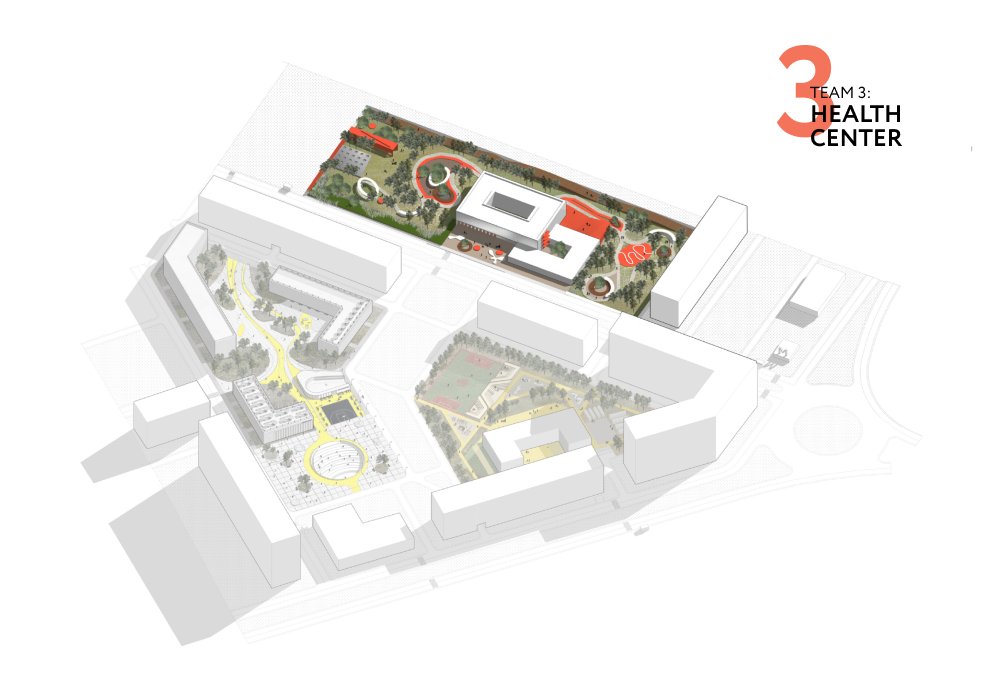
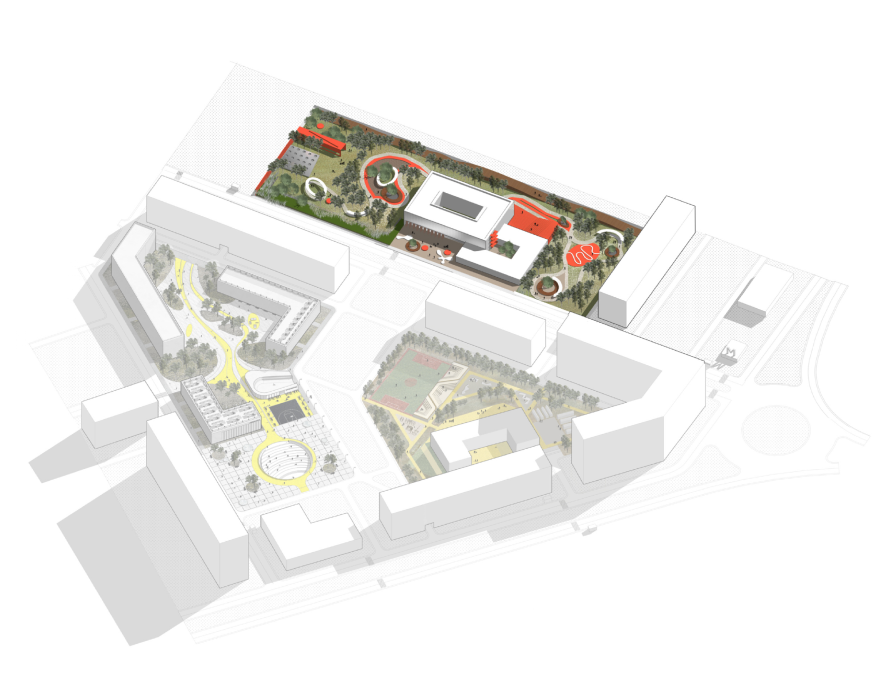
add genplan

diff --git a/Eleonora-sorokina/pages/project2/index.html b/Eleonora-sorokina/pages/project2/index.html
@@ -67,41 +67,99 @@
                     </section>
                 </div>
                 <div class="elia">
-                <section class="tasker">
-                    <div class="tasker__img">
-                        <img class="img_s" src="../../img/gen0.png" alt="">
-                    </div>
-                    <div class="task">
-                        <div class="task__item">
-                        <div class="task__tittle">
-                            <p>
-                                THE TASK AND PURPOSE OF THE WORKSHOP
-                            </p>
+                    <section class="tasker">
+                        <div class="tasker__img">
+                            <img class="img_s" src="../../img/gen0.png" alt="">
                         </div>
-                        <div class="task__step">
-                            <p>Investigate and identify key issues 
-                                improvement of territories of social objects</p>
-                        </div>
+                        <div class="task">
+                            <div class="task__item">
+                                <div class="task__tittle">
+                                    <p>
+                                        THE TASK AND PURPOSE OF THE WORKSHOP
+                                    </p>
+                                </div>
+                                <div class="task__step">
+                                    <p>Investigate and identify key issues
+                                        improvement of territories of social objects</p>
+                                </div>
 
-                            <div class="task__arrow"><img src="../../img/Arrow.svg" alt=""></div>
+                                <div class="task__arrow"><img src="../../img/Arrow.svg" alt=""></div>
 
-                        <div class="task__step">
-                            <p>To formulate the principles of designing the territory
-                                of social objects taking into account modern requirements
-                                and a view of the future development of social objects</p>
-                        </div>
+                                <div class="task__step">
+                                    <p>To formulate the principles of designing the territory
+                                        of social objects taking into account modern requirements
+                                        and a view of the future development of social objects</p>
+                                </div>
 
-                            <div class="task__arrow"><img src="../../img/Arrow.svg" alt=""></div>
+                                <div class="task__arrow"><img src="../../img/Arrow.svg" alt=""></div>
 
-                        <div class="task__step">
-                            <p>To impose the invented principles on the proposed
-                                territory in the form of conditional design solutions</p>
+                                <div class="task__step">
+                                    <p>To impose the invented principles on the proposed
+                                        territory in the form of conditional design solutions</p>
+                                </div>
                             </div>
+                        </section>  
+                        </div>
+                        <div class="team">
+                            <div class="team__img">
+                                <svg  class="team__img__description" width="104" height="64" viewBox="0 0 104 64" fill="none" xmlns="http://www.w3.org/2000/svg">
+                                    <path d="M25.944 43H24.48V39.412H20.64V43H19.164V34.6H20.64V38.032H24.48V34.6H25.944V43ZM33.2495 43H28.2695V34.6H33.1295V35.98H29.7455V38.068H32.7695V39.448H29.7455V41.62H33.2495V43ZM35.5798 43H34.0918L37.6438 34.576H38.9398L42.4918 43H40.9198L40.0438 40.852H36.4558L35.5798 43ZM39.4798 39.472L38.2558 36.484L37.0198 39.472H39.4798ZM49.0059 43H43.7499V34.6H45.2259V41.62H49.0059V43ZM50.7268 35.98H48.0028V34.6H54.9268V35.98H52.2028V43H50.7268V35.98ZM62.987 43H61.523V39.412H57.683V43H56.207V34.6H57.683V38.032H61.523V34.6H62.987V43ZM24.996 53.08L25.56 54.184C25.296 54.464 24.916 54.692 24.42 54.868C23.932 55.044 23.416 55.132 22.872 55.132C21.592 55.132 20.548 54.736 19.74 53.944C18.94 53.152 18.54 52.104 18.54 50.8C18.54 49.552 18.92 48.516 19.68 47.692C20.432 46.876 21.484 46.468 22.836 46.468C23.908 46.468 24.76 46.752 25.392 47.32L24.732 48.412C24.164 48.036 23.532 47.848 22.836 47.848C22.036 47.848 21.38 48.116 20.868 48.652C20.356 49.188 20.1 49.904 20.1 50.8C20.1 51.68 20.368 52.392 20.904 52.936C21.448 53.48 22.148 53.752 23.004 53.752C23.74 53.752 24.404 53.528 24.996 53.08ZM32.0073 55H27.0273V46.6H31.8873V47.98H28.5033V50.068H31.5273V51.448H28.5033V53.62H32.0073V55ZM41.1056 46.6V55H39.9296L35.3096 49.18V55H33.9296V46.6H35.1056L39.7256 52.444V46.6H41.1056ZM45.1135 47.98H42.3895V46.6H49.3135V47.98H46.5895V55H45.1135V47.98ZM55.5737 55H50.5937V46.6H55.4537V47.98H52.0697V50.068H55.0937V51.448H52.0697V53.62H55.5737V55ZM58.972 51.856V55H57.496V46.6C57.912 46.6 58.364 46.596 58.852 46.588C59.34 46.58 59.74 46.576 60.052 46.576C62.084 46.576 63.1 47.44 63.1 49.168C63.1 49.808 62.936 50.336 62.608 50.752C62.28 51.152 61.904 51.424 61.48 51.568L64.108 55H62.32L60.004 51.856H58.972ZM59.98 47.956C59.94 47.956 59.876 47.96 59.788 47.968C59.7 47.968 59.576 47.972 59.416 47.98C59.256 47.98 59.108 47.98 58.972 47.98V50.476H59.932C60.404 50.476 60.788 50.36 61.084 50.128C61.388 49.896 61.54 49.58 61.54 49.18C61.54 48.364 61.02 47.956 59.98 47.956Z" fill="black"/>
+                                    <g style="mix-blend-mode:multiply">
+                                    <path d="M15.616 50.704C12.3307 50.704 9.42933 50.0427 6.912 48.72C4.43733 47.3547 2.60267 45.4987 1.408 43.152L5.568 37.776C8.08533 41.488 11.2853 43.344 15.168 43.344C17.4293 43.344 19.2 42.768 20.48 41.616C21.76 40.464 22.4 38.9707 22.4 37.136C22.4 35.088 21.6533 33.5307 20.16 32.464C18.7093 31.3547 16.6827 30.8 14.08 30.8H10.88V23.44H13.76C15.7227 23.44 17.3653 22.864 18.688 21.712C20.0107 20.56 20.672 19.088 20.672 17.296C20.672 15.5893 20.1813 14.2667 19.2 13.328C18.2187 12.3467 16.8107 11.856 14.976 11.856C11.52 11.856 8.704 13.456 6.528 16.656L2.432 11.472C4.90667 6.82133 9.32267 4.496 15.68 4.496C19.5627 4.496 22.6773 5.54133 25.024 7.632C27.3707 9.68 28.544 12.432 28.544 15.888C28.544 20.9653 26.2613 24.5067 21.696 26.512V26.704C24.384 27.1733 26.4747 28.3893 27.968 30.352C29.504 32.272 30.272 34.6187 30.272 37.392C30.272 41.4453 28.8853 44.688 26.112 47.12C23.3387 49.5093 19.84 50.704 15.616 50.704Z" fill="#F3745A"/>
+                                    </g>
+                                    <path d="M20.04 26.04H18.08V25.4H22.68V26.04H20.72V31H20.04V26.04ZM26.8378 31H23.5978V25.4H26.7578V26.04H24.2778V27.848H26.5178V28.488H24.2778V30.36H26.8378V31ZM28.1674 31H27.4794L29.8874 25.368H30.4714L32.8794 31H32.1514L31.4314 29.304H28.8794L28.1674 31ZM31.1674 28.664L30.1594 26.272L29.1514 28.664H31.1674ZM34.52 31H33.84V25.4H34.528L36.632 28.272L38.648 25.4H39.296V31H38.616V26.472L36.632 29.256H36.528L34.52 26.496V31ZM43.9057 31.08C43.511 31.08 43.1644 30.9973 42.8657 30.832C42.5724 30.6667 42.3537 30.4293 42.2097 30.12L42.5777 29.664C42.7057 29.9093 42.887 30.1013 43.1217 30.24C43.3564 30.3733 43.6097 30.44 43.8817 30.44C44.2177 30.44 44.4844 30.3467 44.6817 30.16C44.8844 29.9733 44.9857 29.7307 44.9857 29.432C44.9857 29.1333 44.879 28.896 44.6657 28.72C44.4577 28.544 44.183 28.456 43.8417 28.456H43.4017V27.816H43.8017C44.063 27.816 44.287 27.7253 44.4737 27.544C44.671 27.3627 44.7697 27.1307 44.7697 26.848C44.7697 26.5707 44.687 26.3547 44.5217 26.2C44.3617 26.04 44.1404 25.96 43.8577 25.96C43.351 25.96 42.967 26.192 42.7057 26.656L42.3457 26.216C42.4737 25.9333 42.6737 25.7147 42.9457 25.56C43.223 25.4 43.543 25.32 43.9057 25.32C44.375 25.32 44.7484 25.448 45.0257 25.704C45.3084 25.96 45.4497 26.304 45.4497 26.736C45.4497 27.0453 45.375 27.3173 45.2257 27.552C45.0764 27.7867 44.8604 27.9627 44.5777 28.08V28.104C44.9084 28.1573 45.1724 28.3093 45.3697 28.56C45.567 28.8107 45.6657 29.1093 45.6657 29.456C45.6657 29.9467 45.5004 30.3413 45.1697 30.64C44.8444 30.9333 44.423 31.08 43.9057 31.08ZM47.0275 27.752C47.0275 27.64 47.0702 27.5413 47.1555 27.456C47.2462 27.3707 47.3555 27.328 47.4835 27.328C47.5955 27.328 47.6942 27.3707 47.7795 27.456C47.8648 27.5413 47.9075 27.64 47.9075 27.752C47.9075 27.88 47.8675 27.9893 47.7875 28.08C47.7075 28.1653 47.6062 28.208 47.4835 28.208C47.3555 28.208 47.2462 28.1653 47.1555 28.08C47.0702 27.9893 47.0275 27.88 47.0275 27.752ZM47.0275 30.568C47.0275 30.456 47.0702 30.3573 47.1555 30.272C47.2462 30.1867 47.3555 30.144 47.4835 30.144C47.5955 30.144 47.6942 30.1867 47.7795 30.272C47.8648 30.3573 47.9075 30.456 47.9075 30.568C47.9075 30.696 47.8675 30.8053 47.7875 30.896C47.7075 30.9813 47.6062 31.024 47.4835 31.024C47.3555 31.024 47.2462 30.9813 47.1555 30.896C47.0702 30.8053 47.0275 30.696 47.0275 30.568Z" fill="black"/>
+                                    </svg>
+                                <img class="team__img__img" src="../../img/gen1.png" alt="">
+                               
+                            </div>
+
+                            <div class="team__item">
+                                <div class="team__item__tittle">
+                                    <p>
+                                        TEAM 3: HEALTH CENTER
+                                    </p>
+                                </div>
+                                <div class="team__item_all">
+                                <div class="team__item__description elem1">
+                                    <p>
+                                        Area of the territory: <br> 1.2 hectares;
+                                    </p>
+                                </div>
+                                <div class="team__item__description elem2">
+                                    <p>
+                                        Buildings on the site:<br> connected 2 medical buildings, courtyards;
+                                    </p>
+                                </div>
+                                <div class="team__item__description elem3">
+                                    <p>
+                                        Special condition: direction - rehabilitation, restoration; Part of the
+                                        territory is an object of cultural heritage;
+
+                                    </p>
+                                </div>
+                                <div class="team__item__description elem4">
+                                    <p>
+                                        Category of users: hospital patients, medical personnel, technical workers,
+                                        urban residents, low-mobility groups of the population.
+                                    </p>
+                                </div>
+                                <div class="team__item__description elem5">
+                                    <p>
+                                        Team members: Natalia Kalinina (RUDN), Eleonora Sorokina (VSTU), Elena Skakunova
+                                        (MArchI)
+
+                                    </p>
+                                </div>
+                            </div>
+                            </div>
+
                         </div>
 
-                    </div>
-                </section>
-</div>
+
+
+
+                   
+                </div>
 
 
 

diff --git a/Eleonora-sorokina/pages/project2/css/style.css b/Eleonora-sorokina/pages/project2/css/style.css
@@ -111,9 +111,13 @@
 
     font-family: 'circelight';
     display: flex;
-    justify-content: center;
+    
     align-items: center;
     
+}
+.task__item{
+    width: 80%;
+    margin-left: 14%;
 }
 
 .task__arrow{
@@ -124,7 +128,7 @@
 
 
 .task__tittle{
-    
+    margin-bottom: 20px;
     font-family: 'circebold';
   
     
@@ -139,6 +143,84 @@
 .img_s{
   width: 100%;
   object-fit: cover;
+}
+
+
+
+
+ 
+.team{
+    display: grid;
+    grid-template-columns: 1fr 1fr;
+    margin-top: 117px;
+    text-overflow: clip;
+    
+}
+.team__img__description{
+    position: absolute;
+    bottom: 85%;
+    top: 30px;
+    left: 70%;
+    border: 1px rgba(0, 128, 0, 0) solid;
+    margin-left: 40px;
+}
+
+.team__img__img{
+     width: 100%;
+    object-fit: cover;
+     
+    top: 0;
+    left: 0;
+    border: 1px rgba(255, 0, 0, 0) solid;
+}
+
+.team__img{
+position: relative;
+top: 0;
+left: 0;
+
+}
+
+.team__item_all{
+    width: 70%;
+}
+
+.team__item {
+    display: flex;
+flex-direction: column;
+margin-left: 15%;
+}
+.team__item__tittle {
+    font-family: 'circebold';  
+    margin-bottom: 20px;
+    justify-self: start;
+    align-self: flex-start;
+}
+.team__item__description {
+    font-family: 'circelight';
+    margin-bottom: 10px;
+    display: flex;
+}
+
+.elem1::before{
+    content: url(../../../img/icon1.svg);
+    margin-right: 10px;
+}
+.elem2::before{
+    content: url(../../../img/icon2.svg);
+    margin-right: 10px;
+}
+.elem3::before{
+    content: url(../../../img/icon3.svg);
+    margin-right: 10px;
+}
+.elem4::before{
+    content: url(../../../img/icon4.svg);
+    margin-right: 10px;
+}
+.elem5::before{
+    content: url(../../../img/icon5.svg);
+    margin-right: 10px;
 }
 
 
@@ -163,18 +245,21 @@
     .tittle__description{
          margin-top: 60px;
      }
-  
+   
         
 .tasker{
-    margin-top: 100px;
+    row-gap: 40px;
+    margin: 40px 0px 40px 0px;
     display: grid;
     height: auto;
     flex-wrap: wrap;
     grid-template-columns: 1fr;
     grid-template-rows: 1fr 1fr;
-   
-}
-        
-    
-
+  }
+  .team{
+    grid-template-columns: 1fr;
+   }
+   .team__item__tittle{
+       margin-top: 40px;
+   }
 }

diff --git a/Eleonora-sorokina/css/style.css b/Eleonora-sorokina/css/style.css
@@ -212,3 +212,6 @@ margin: 0px;
 }
 
 
+
+
+
